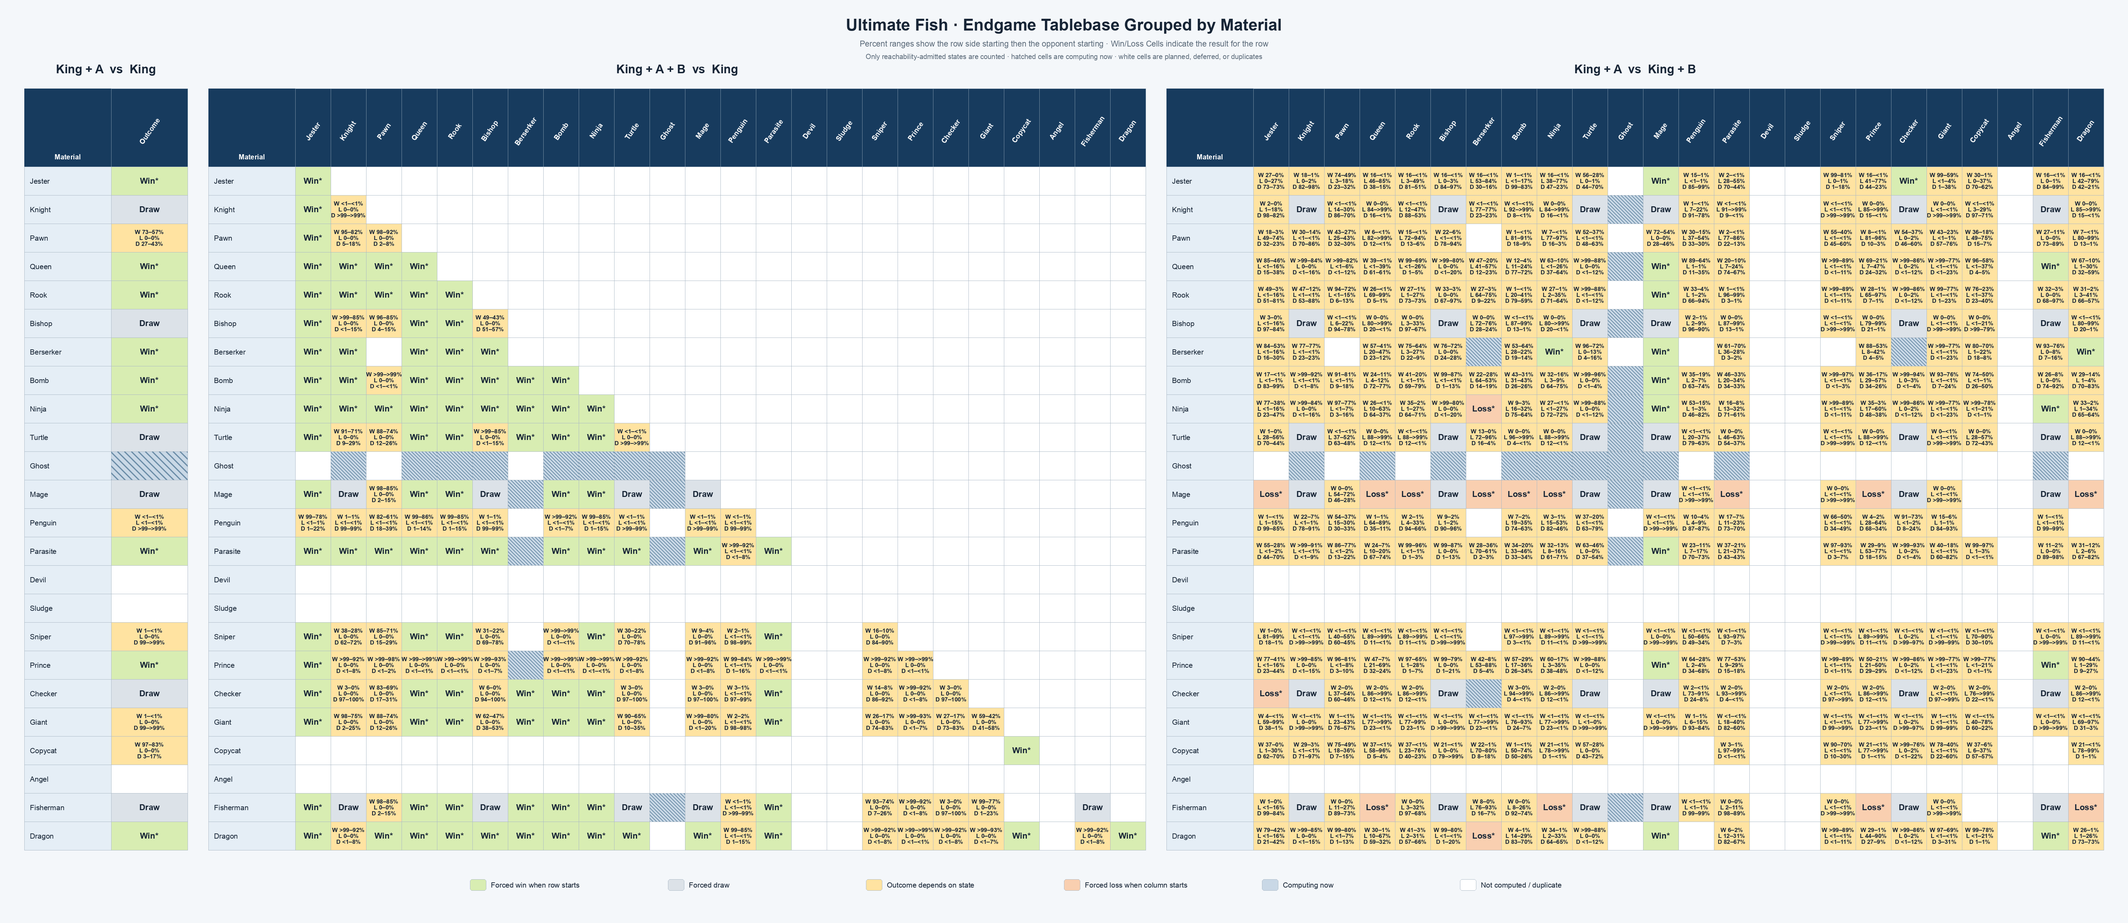
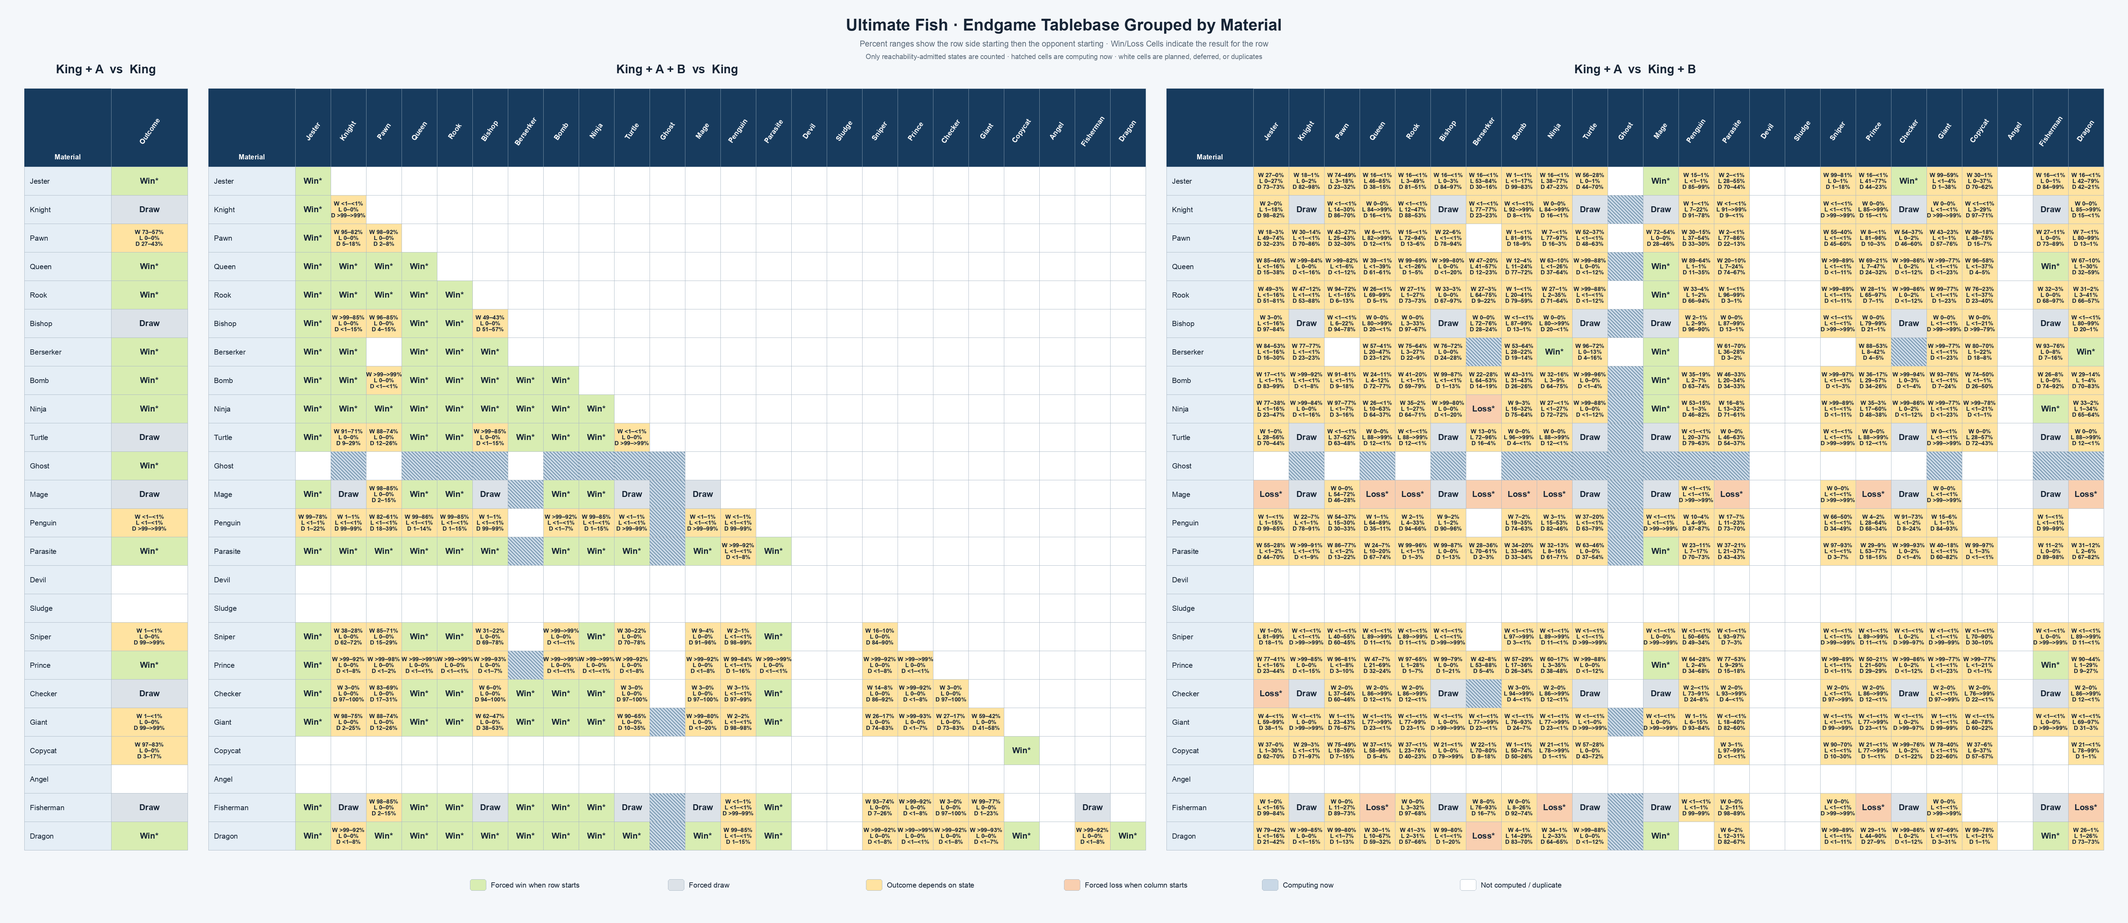
tablebases: certify corrected single Ghost information

diff --git a/tests/tablebases/test_ultimate_tablebase_ledger.py b/tests/tablebases/test_ultimate_tablebase_ledger.py
@@ -155,7 +155,7 @@ class UltimateTablebaseLedgerTests(unittest.TestCase):
                 row.key,
             )
             checked += 1
-        self.assertEqual(393, checked)
+        self.assertEqual(389, checked)
 
     def test_exact_certified_import_is_validated_and_persistent(self):
         rows = ledger.entries(ledger.README.read_text())

diff --git a/tablebases/README.md b/tablebases/README.md
@@ -58,7 +58,7 @@ generated exclusively from the canonical ledger below by
 > S3 versions remain only as invalidated provenance.
 
 <!-- COMPUTATION_LEDGER_START -->
-Ledger totals: **388 certified**, **2 preserving**, **18 computing**, **34 exact draws**, **35 planned**, **0 blocked**, and **147 deferred**; 624 unique material classes.
+Ledger totals: **389 certified**, **2 preserving**, **17 computing**, **34 exact draws**, **35 planned**, **0 blocked**, and **147 deferred**; 624 unique material classes.
 
 | Key | Class | Domain | File | Status | Indexed states | Result domain | First starts W / L / D | Second starts W / L / D | Reachable / unreachable (first; second) | Canonical storage |
 | --- | --- | --- | --- | --- | ---: | --- | ---: | ---: | ---: | --- |
@@ -72,9 +72,9 @@ Ledger totals: **388 certified**, **2 preserving**, **18 computing**, **34 exact
 | `single:bomb` | King+Bomb vs King | single | `kbombk.uftb` | **CERTIFIED** | 985,920 | concrete | 394,988 (97,972) / 0 / 0 | 0 (41,808) / 448,600 (1,760) / 792 | 394,988 / 97,972; 449,392 / 43,568 | S3 legacy archive sha256:e296deebc6d0f4ef2c53e14eab86fd1c2bbc9954a6051ffca5ce7b9623b08263 VersionId YTpSbC_DShKsF8QwShKRSIBUVf8PH0VJ; preservation certificate sha256:1232600dfdc1be8be002701245e6523bfde8334dd4594c8241429a88b5cd825d VersionId 5hp3sJXKSZLcNwkzKEcs8AXrYuGea3RY; reachability v2 sha256:52887f4e29eab71e92dd0aaec2019f4a5a3f59b8010ad4d4de7f0816559f889a VersionId dnNKI2aUC80gBjlcQWpvjNLGrcmH0fen |
 | `single:ninja` | King+Ninja vs King | single | `kninjak.uftb` | **CERTIFIED** | 985,920 | concrete | 356,360 (136,600) / 0 / 0 | 0 (41,808) / 413,376 / 37,776 | 356,360 / 136,600; 451,152 / 41,808 | S3 legacy archive sha256:e296deebc6d0f4ef2c53e14eab86fd1c2bbc9954a6051ffca5ce7b9623b08263 VersionId YTpSbC_DShKsF8QwShKRSIBUVf8PH0VJ; preservation certificate sha256:1232600dfdc1be8be002701245e6523bfde8334dd4594c8241429a88b5cd825d VersionId 5hp3sJXKSZLcNwkzKEcs8AXrYuGea3RY; reachability v2 sha256:52887f4e29eab71e92dd0aaec2019f4a5a3f59b8010ad4d4de7f0816559f889a VersionId dnNKI2aUC80gBjlcQWpvjNLGrcmH0fen |
 | `single:turtle` | King+Turtle vs King | single | — | **DRAW** | — | insufficient material | 0 / 0 / 1 | 0 / 0 / 1 | closed-form draw | — |
-| `single:ghost` | King+Ghost vs King | single | `kghostk.uftb` | **COMPUTING** | 1,971,840 | information v2 | — | — | — | Corrected concrete rebuild from empty work root verified on i08: 1,971,840 states, 17,761,248 edges, W/L/D 1,069,536 / 828,752 / 73,552, table sha256:11b7b57aa9819b1fb9ac3f7bd273ab73cfa3627fb09a855856ae1426af2c0ba5 S3 VersionId eVhw2QN4_t.7cC3AXFR.ltvpmgi4zuhn; full reachability audit sha256:ebf42b170620d65d3f28f0274a81adc39e0547e880772ce9ed4123cad2619b4b VersionId tBwxo4OIADUQHaOIhBKbvea8ccCfEvYi. Corrected hidden-information sidecars are rebuilding from an empty root on i08 with ROBDD reallocation fix source sha256:840d1ac91803267f57dae83f73d5ff7b4e4a32c01d0d3b28585c7e79a251c01e (S3 VersionId MEW4PL43B7k_wzBPgA68KfkcTR7BLA4l); no pre-fix or failed-run graph/checkpoint is reused. |
+| `single:ghost` | King+Ghost vs King | single | `kghostk.uftb` | **CERTIFIED** | 1,971,840 | information v2 | 863,768 (122,152) / 0 / 0 | 0 (83,616) / 826,992 (1,760) / 36,776 (36,776) | 863,768 / 122,152; 863,768 / 122,152 | Corrected concrete table sha256:11b7b57aa9819b1fb9ac3f7bd273ab73cfa3627fb09a855856ae1426af2c0ba5 S3 VersionId eVhw2QN4_t.7cC3AXFR.ltvpmgi4zuhn; reachability audit sha256:ebf42b170620d65d3f28f0274a81adc39e0547e880772ce9ed4123cad2619b4b VersionId tBwxo4OIADUQHaOIhBKbvea8ccCfEvYi; information overlay sha256:b431c1aa18f6b3563bb8837d3251090c2eae37102bf15af31f8aa540f2c7b240 VersionId Tsj0JpGtBORyc9YmJTIEku9EC5YY8FYk; arbitrary-mask sidecar sha256:7f739228e0498b6adcca5e3ca00453a1af926d9d43b9193fff71e7c52eeda489 VersionId fhIm5namTUIHarnNYWt3c1MTmt81wo_Q. The corrected empty-root symbolic solve converged in 49 iterations with Bellman, monotonicity, singleton, and sidecar round-trip residuals all zero; ROBDD-fix source sha256:840d1ac91803267f57dae83f73d5ff7b4e4a32c01d0d3b28585c7e79a251c01e VersionId MEW4PL43B7k_wzBPgA68KfkcTR7BLA4l; no pre-fix or failed-run artifact reused. |
 | `single:mage` | King+Mage vs King | single | — | **DRAW** | — | insufficient material | 0 / 0 / 1 | 0 / 0 / 1 | closed-form draw | — |
-| `single:penguin` | King+Penguin vs King | single | `kpenguink.uftb` | **CERTIFIED** | 3,943,680 | concrete | 384 (48,064) / 192 / 489,112 (448,168) | 796 (43,568) / 1,760 / 527,180 (412,616) | 489,688 / 496,232; 529,736 / 456,184 | S3 table sha256:7bb7da4d5ee6bbe7cb74fd6d65c5d318e79e4ac41492c424960d3934335d22c7 VersionId n.2zykICTUqovc8HRIl7A_JUBWcOK12t; certificate sha256:a2c9023d0fba7eb60b5daa8a4afbfd76cc649cbf26b3472c94fca170285c4629 VersionId OJUUS1OstRF50J2LZ_o74FLgzbUnyNH9; reachability sha256:da3d6ec8c3ff316b85b3ab3e44aecbbab965dfd6b5abb995c38c66c48b6caba3 VersionId np2bYbyydgL7aa0PhyM2Ksd1Nhbp0bSO |
+| `single:penguin` | King+Penguin vs King | single | `kpenguink.uftb` | **CERTIFIED** | 3,943,680 | concrete | 384 (48,064) / 192 / 489,112 (448,168) | 796 (43,568) / 1,760 / 527,180 (412,616) | 489,688 / 496,232; 529,736 / 456,184 | S3 archive sha256:7bb7da4d5ee6bbe7cb74fd6d65c5d318e79e4ac41492c424960d3934335d22c7 VersionId n.2zykICTUqovc8HRIl7A_JUBWcOK12t; contained table sha256:5abd70c847e799b85ed08c49f01c4e5deb3d253505583b8bc145290a84417edd; certificate sha256:a2c9023d0fba7eb60b5daa8a4afbfd76cc649cbf26b3472c94fca170285c4629 VersionId OJUUS1OstRF50J2LZ_o74FLgzbUnyNH9; reachability sha256:da3d6ec8c3ff316b85b3ab3e44aecbbab965dfd6b5abb995c38c66c48b6caba3 VersionId np2bYbyydgL7aa0PhyM2Ksd1Nhbp0bSO |
 | `single:parasite` | King+Parasite vs King | single | `kparasitek.uftb` | **CERTIFIED** | 985,920 | concrete | 412,616 (80,344) / 0 / 0 | 0 (41,808) / 451,120 / 32 | 412,616 / 80,344; 451,152 / 41,808 | S3 legacy archive sha256:e296deebc6d0f4ef2c53e14eab86fd1c2bbc9954a6051ffca5ce7b9623b08263 VersionId YTpSbC_DShKsF8QwShKRSIBUVf8PH0VJ; preservation certificate sha256:1232600dfdc1be8be002701245e6523bfde8334dd4594c8241429a88b5cd825d VersionId 5hp3sJXKSZLcNwkzKEcs8AXrYuGea3RY; reachability v2 sha256:52887f4e29eab71e92dd0aaec2019f4a5a3f59b8010ad4d4de7f0816559f889a VersionId dnNKI2aUC80gBjlcQWpvjNLGrcmH0fen |
 | `single:devil` | King+Devil vs King | single | — | **DEFERRED** | — | concrete | — | — | — | — |
 | `single:sludge` | King+Sludge vs King | single | — | **DEFERRED** | — | concrete | — | — | — | — |
@@ -283,18 +283,18 @@ Ledger totals: **388 certified**, **2 preserving**, **18 computing**, **34 exact
 | `same:turtle+dragon` | King+Turtle+Dragon vs King | same | `kturtledragonk.uftb` | **CERTIFIED** | 37,957,920 | concrete | 13,456,552 (5,522,408) / 0 / 0 | 0 (1,609,608) / 15,996,498 / 1,372,854 | 13,456,552 / 5,522,408; 17,369,352 / 1,609,608 | S3 legacy archive sha256:e296deebc6d0f4ef2c53e14eab86fd1c2bbc9954a6051ffca5ce7b9623b08263 VersionId YTpSbC_DShKsF8QwShKRSIBUVf8PH0VJ; preservation certificate sha256:1232600dfdc1be8be002701245e6523bfde8334dd4594c8241429a88b5cd825d VersionId 5hp3sJXKSZLcNwkzKEcs8AXrYuGea3RY; reachability v2 sha256:52887f4e29eab71e92dd0aaec2019f4a5a3f59b8010ad4d4de7f0816559f889a VersionId dnNKI2aUC80gBjlcQWpvjNLGrcmH0fen |
 | `same:ghost+ghost` | King+2 Ghosts vs King | same | `kghostghostk.uftb` | **COMPUTING** | 75,915,840 | information required | — | — | — | Clean corrected-model concrete rebuild active from an empty work directory on high-memory i03 CPU 4; both-Ghost concrete and all later information graphs will be rebuilt from scratch. |
 | `same:ghost+mage` | King+Ghost+Mage vs King | same | `kghostmagek.uftb` | **COMPUTING** | 75,915,840 | information required | — | — | — | Clean corrected-model concrete rebuild active from an empty work directory on high-memory i0b CPU 2; source sha256:8d9e5e93b96dd76d036e5c908549ebca17c7bc7cccb45be46502078b1f568d62 and corrected lower Ghost table sha256:11b7b57aa9819b1fb9ac3f7bd273ab73cfa3627fb09a855856ae1426af2c0ba5; no old graph/checkpoint reused. |
-| `same:ghost+penguin` | King+Ghost+Penguin vs King | same | `kghostpenguink.uftb` | **PLANNED** | 607,326,720 | information required | — | — | — | INVALIDATED 2026-08-13: pre-fix Ghost artifacts and S3 versions are superseded provenance only; clean concrete, information, transition, normalized-parent, certificate, checkpoint, and retained/rebound rebuild required. |
+| `same:ghost+penguin` | King+Ghost+Penguin vs King | same | `kghostpenguink.uftb` | **COMPUTING** | 607,326,720 | information required | — | — | — | Clean corrected-model concrete rebuild active from an empty work root on high-memory i03 CPU 17. The certified Penguin lower table was restored from pinned archive VersionId n.2zykICTUqovc8HRIl7A_JUBWcOK12t and verified as sha256:5abd70c847e799b85ed08c49f01c4e5deb3d253505583b8bc145290a84417edd. No pre-fix Ghost artifact is reused. |
 | `same:ghost+parasite` | King+Ghost+Parasite vs King | same | `kghostparasitek.uftb` | **COMPUTING** | 75,915,840 | information required | — | — | — | Clean corrected-model concrete rebuild active from an empty overflow-disk work root on high-memory i0b CPU 8; no pre-fix artifact reused. |
 | `same:ghost+devil` | King+Ghost+Devil vs King | same | — | **DEFERRED** | — | concrete | — | — | — | — |
 | `same:ghost+sludge` | King+Ghost+Sludge vs King | same | — | **DEFERRED** | — | concrete | — | — | — | — |
 | `same:ghost+sniper` | King+Ghost+Sniper vs King | same | `kghostsniperk.uftb` | **PLANNED** | 303,663,360 | information required | — | — | — | INVALIDATED 2026-08-13: pre-fix Ghost artifacts and S3 versions are superseded provenance only; clean concrete, information, transition, normalized-parent, certificate, checkpoint, and retained/rebound rebuild required. |
 | `same:ghost+prince` | King+Ghost+Prince vs King | same | `kghostprincek.uftb` | **PLANNED** | 151,831,680 | information required | — | — | — | INVALIDATED 2026-08-13: pre-fix Ghost artifacts and S3 versions are superseded provenance only; clean concrete, information, transition, normalized-parent, certificate, checkpoint, and retained/rebound rebuild required. |
 | `same:ghost+checker` | King+Ghost+Checker vs King | same | `kghostcheckerk.uftb` | **PLANNED** | 303,663,360 | information required | — | — | — | INVALIDATED 2026-08-13: pre-fix Ghost artifacts and S3 versions are superseded provenance only; clean concrete, information, transition, normalized-parent, certificate, checkpoint, and retained/rebound rebuild required. |
-| `same:ghost+giant` | King+Ghost+Giant vs King | same | `kghostgiantk.uftb` | **PLANNED** | 75,915,840 | information v2 | — | — | — | INVALIDATED 2026-08-13: pre-fix Ghost artifacts and S3 versions are superseded provenance only; clean concrete, information, transition, normalized-parent, certificate, checkpoint, and retained/rebound rebuild required. |
+| `same:ghost+giant` | King+Ghost+Giant vs King | same | `kghostgiantk.uftb` | **COMPUTING** | 75,915,840 | information v2 | — | — | — | Clean corrected-model concrete rebuild active from an empty work root on i03 CPU 13; no pre-fix artifact reused. |
 | `same:ghost+copycat` | King+Ghost+Copycat vs King | same | `kcopycatghostk.uftb` | **PLANNED** | 151,831,680 | information required | — | — | — | INVALIDATED 2026-08-13: pre-fix Ghost artifacts and S3 versions are superseded provenance only; clean concrete, information, transition, normalized-parent, certificate, checkpoint, and retained/rebound rebuild required. |
 | `same:ghost+angel` | King+Ghost+Angel vs King | same | — | **DEFERRED** | — | concrete | — | — | — | — |
 | `same:ghost+fisherman` | King+Ghost+Fisherman vs King | same | `kghostfishermank.uftb` | **COMPUTING** | 75,915,840 | information required | — | — | — | Clean corrected-model concrete rebuild active from empty work root on i08 CPU 2. The later specialized Fisherman/Ghost information transitions will also be rebuilt from scratch under the corrected collision rules. |
-| `same:ghost+dragon` | King+Ghost+Dragon vs King | same | `kghostdragonk.uftb` | **PLANNED** | 75,915,840 | information required | — | — | — | INVALIDATED 2026-08-13: pre-fix Ghost artifacts and S3 versions are superseded provenance only; clean concrete, information, transition, normalized-parent, certificate, checkpoint, and retained/rebound rebuild required. |
+| `same:ghost+dragon` | King+Ghost+Dragon vs King | same | `kghostdragonk.uftb` | **COMPUTING** | 75,915,840 | information required | — | — | — | Clean corrected-model concrete rebuild active from an empty work root on i03 CPU 15; no pre-fix artifact reused. |
 | `same:mage+mage` | King+2 Mages vs King | same | — | **DRAW** | — | insufficient material | 0 / 0 / 1 | 0 / 0 / 1 | closed-form draw | — |
 | `same:mage+penguin` | King+Mage+Penguin vs King | same | `kmagepenguink.uftb` | **CERTIFIED** | 303,663,360 | concrete | 52,012 (2,273,538) / 2,820 / 20,523,140 (128,980,170) | 8,998 (1,881,536) / 135,360 / 22,168,722 (127,637,064) | 20,577,972 / 131,253,708; 22,313,080 / 129,518,600 | S3 table sha256:90eeb1aef3fbe48c084ae1c687cfde59c1e038a33306c227175844239d4590fc VersionId 83DZWNbTLdgPddvwEZCKMtPY2R32_4Zv; certificate sha256:8ef021fda5605adac11e6da2d4a1fc522b3aeca6010ee6edd261d4fd2f3ac9e3 VersionId ZtyfbqhzpInivp5adCjqOOE00otwnAev; reachability sha256:a4cc3e99172e68cfd6db0cbf39684b269ad52b55b2474b0c02bec4a49db1582a VersionId l4OKpcav3CSApOYbYy00jJtf89h2rCar |
 | `same:mage+parasite` | King+Mage+Parasite vs King | same | `kmageparasitek.uftb` | **CERTIFIED** | 37,957,920 | concrete | 15,885,716 (3,093,244) / 0 / 0 | 0 (1,609,608) / 17,368,120 / 1,232 | 15,885,716 / 3,093,244; 17,369,352 / 1,609,608 | S3 legacy archive sha256:e296deebc6d0f4ef2c53e14eab86fd1c2bbc9954a6051ffca5ce7b9623b08263 VersionId YTpSbC_DShKsF8QwShKRSIBUVf8PH0VJ; preservation certificate sha256:1232600dfdc1be8be002701245e6523bfde8334dd4594c8241429a88b5cd825d VersionId 5hp3sJXKSZLcNwkzKEcs8AXrYuGea3RY; reachability v2 sha256:52887f4e29eab71e92dd0aaec2019f4a5a3f59b8010ad4d4de7f0816559f889a VersionId dnNKI2aUC80gBjlcQWpvjNLGrcmH0fen |
@@ -583,18 +583,18 @@ Ledger totals: **388 certified**, **2 preserving**, **18 computing**, **34 exact
 | `opposed:turtle+dragon` | King+Turtle vs King+Dragon | opposed | `kturtlekdragon.uftb` | **CERTIFIED** | 37,957,920 | concrete | 0 (2,397,164) / 14,530,158 / 2,051,638 | 14,056,448 (4,893,140) / 0 / 29,372 | 16,581,796 / 2,397,164; 14,085,820 / 4,893,140 | S3 legacy archive sha256:e296deebc6d0f4ef2c53e14eab86fd1c2bbc9954a6051ffca5ce7b9623b08263 VersionId YTpSbC_DShKsF8QwShKRSIBUVf8PH0VJ; preservation certificate sha256:1232600dfdc1be8be002701245e6523bfde8334dd4594c8241429a88b5cd825d VersionId 5hp3sJXKSZLcNwkzKEcs8AXrYuGea3RY; reachability v2 sha256:52887f4e29eab71e92dd0aaec2019f4a5a3f59b8010ad4d4de7f0816559f889a VersionId dnNKI2aUC80gBjlcQWpvjNLGrcmH0fen |
 | `opposed:ghost+ghost` | King+Ghost vs King+Ghost | opposed | `kghostkghost.uftb` | **COMPUTING** | 151,831,680 | information required | — | — | — | Clean corrected-model concrete rebuild active from an empty work directory on high-memory i03 CPU 5; both-Ghost concrete and all later information graphs will be rebuilt from scratch. |
 | `opposed:ghost+mage` | King+Ghost vs King+Mage | opposed | `kghostkmage.uftb` | **COMPUTING** | 75,915,840 | information required | — | — | — | Clean corrected-model concrete rebuild active from an empty work directory on high-memory i0b CPU 3; corrected source/lower bindings; no old graph/checkpoint reused. |
-| `opposed:ghost+penguin` | King+Ghost vs King+Penguin | opposed | `kghostkpenguin.uftb` | **PLANNED** | 607,326,720 | information required | — | — | — | INVALIDATED 2026-08-13: pre-fix Ghost artifacts and S3 versions are superseded provenance only; clean concrete, information, transition, normalized-parent, certificate, checkpoint, and retained/rebound rebuild required. |
+| `opposed:ghost+penguin` | King+Ghost vs King+Penguin | opposed | `kghostkpenguin.uftb` | **COMPUTING** | 607,326,720 | information required | — | — | — | Clean corrected-model concrete rebuild active from an empty overflow-disk work root on high-memory i0b CPU 14. The exact pinned certified Penguin lower table is bound by sha256:5abd70c847e799b85ed08c49f01c4e5deb3d253505583b8bc145290a84417edd. No pre-fix Ghost artifact is reused. |
 | `opposed:ghost+parasite` | King+Ghost vs King+Parasite | opposed | `kghostkparasite.uftb` | **COMPUTING** | 75,915,840 | information required | — | — | — | Clean corrected-model concrete rebuild active from an empty overflow-disk work root on high-memory i0b CPU 9; no pre-fix artifact reused. |
 | `opposed:ghost+devil` | King+Ghost vs King+Devil | opposed | — | **DEFERRED** | — | concrete | — | — | — | — |
 | `opposed:ghost+sludge` | King+Ghost vs King+Sludge | opposed | — | **DEFERRED** | — | concrete | — | — | — | — |
 | `opposed:ghost+sniper` | King+Ghost vs King+Sniper | opposed | `kghostksniper.uftb` | **PLANNED** | 303,663,360 | information required | — | — | — | INVALIDATED 2026-08-13: pre-fix Ghost artifacts and S3 versions are superseded provenance only; clean concrete, information, transition, normalized-parent, certificate, checkpoint, and retained/rebound rebuild required. |
 | `opposed:ghost+prince` | King+Ghost vs King+Prince | opposed | `kghostkprince.uftb` | **PLANNED** | 151,831,680 | information required | — | — | — | INVALIDATED 2026-08-13: pre-fix Ghost artifacts and S3 versions are superseded provenance only; clean concrete, information, transition, normalized-parent, certificate, checkpoint, and retained/rebound rebuild required. |
 | `opposed:ghost+checker` | King+Ghost vs King+Checker | opposed | `kghostkchecker.uftb` | **PLANNED** | 303,663,360 | information required | — | — | — | INVALIDATED 2026-08-13: pre-fix Ghost artifacts and S3 versions are superseded provenance only; clean concrete, information, transition, normalized-parent, certificate, checkpoint, and retained/rebound rebuild required. |
-| `opposed:ghost+giant` | King+Ghost vs King+Giant | opposed | `kghostkgiant.uftb` | **PLANNED** | 75,915,840 | information required | — | — | — | INVALIDATED 2026-08-13: pre-fix Ghost artifacts and S3 versions are superseded provenance only; clean concrete, information, transition, normalized-parent, certificate, checkpoint, and retained/rebound rebuild required. |
+| `opposed:ghost+giant` | King+Ghost vs King+Giant | opposed | `kghostkgiant.uftb` | **COMPUTING** | 75,915,840 | information required | — | — | — | Clean corrected-model concrete rebuild active from an empty work root on i03 CPU 14; no pre-fix artifact reused. |
 | `opposed:ghost+copycat` | King+Ghost vs King+Copycat | opposed | `kcopycatkghost.uftb` | **PLANNED** | 151,831,680 | information required | — | — | — | INVALIDATED 2026-08-13: pre-fix Ghost artifacts and S3 versions are superseded provenance only; clean concrete, information, transition, normalized-parent, certificate, checkpoint, and retained/rebound rebuild required. |
 | `opposed:ghost+angel` | King+Ghost vs King+Angel | opposed | — | **DEFERRED** | — | concrete | — | — | — | — |
 | `opposed:ghost+fisherman` | King+Ghost vs King+Fisherman | opposed | `kghostkfisherman.uftb` | **COMPUTING** | 75,915,840 | information required | — | — | — | Clean corrected-model concrete rebuild active from empty work root on i08 CPU 3. The later specialized Fisherman/Ghost information transitions will also be rebuilt from scratch under the corrected collision rules. |
-| `opposed:ghost+dragon` | King+Ghost vs King+Dragon | opposed | `kghostkdragon.uftb` | **PLANNED** | 75,915,840 | information required | — | — | — | INVALIDATED 2026-08-13: pre-fix Ghost artifacts and S3 versions are superseded provenance only; clean concrete, information, transition, normalized-parent, certificate, checkpoint, and retained/rebound rebuild required. |
+| `opposed:ghost+dragon` | King+Ghost vs King+Dragon | opposed | `kghostkdragon.uftb` | **COMPUTING** | 75,915,840 | information required | — | — | — | Clean corrected-model concrete rebuild active from an empty work root on i03 CPU 16; no pre-fix artifact reused. |
 | `opposed:mage+mage` | King+Mage vs King+Mage | opposed | — | **DRAW** | — | insufficient material | 0 / 0 / 1 | 0 / 0 / 1 | closed-form draw | — |
 | `opposed:mage+penguin` | King+Mage vs King+Penguin | opposed | `kmagekpenguin.uftb` | **CERTIFIED** | 303,663,360 | concrete | 46,148 (1,881,536) / 22,416 / 22,244,516 (127,637,064) | 44,662 (1,901,860) / 11,076 / 22,131,842 (127,742,240) | 22,313,080 / 129,518,600; 22,187,580 / 129,644,100 | S3 table sha256:6f8e47606ea7499cd376721e196cccc5a5d8f96e54a2f8986c653b2fb0bbea97 VersionId 02kKpSQcFjNEDFzlrzfEr8GaTDRPqLrt; certificate sha256:b39ecbc5d0e06ed4e53359a9254f8f50429b2398359b6c89cca6d8fe01abd608 VersionId 0NdVdO4oHVFxdaIaat3gDGGjRP5_3IAV; reachability sha256:079960e4fdccae3983c83f341da904382beb9f81eb1b8eac02d7a9b6fe787e94 VersionId q2lALZC6OL2nYzl37DmHcV6TnQWbpfKF |
 | `opposed:mage+parasite` | King+Mage vs King+Parasite | opposed | `kmagekparasite.uftb` | **CERTIFIED** | 37,957,920 | concrete | 0 (1,609,608) / 17,369,180 / 172 | 15,885,716 (3,093,244) / 0 / 0 | 17,369,352 / 1,609,608; 15,885,716 / 3,093,244 | S3 legacy archive sha256:e296deebc6d0f4ef2c53e14eab86fd1c2bbc9954a6051ffca5ce7b9623b08263 VersionId YTpSbC_DShKsF8QwShKRSIBUVf8PH0VJ; preservation certificate sha256:1232600dfdc1be8be002701245e6523bfde8334dd4594c8241429a88b5cd825d VersionId 5hp3sJXKSZLcNwkzKEcs8AXrYuGea3RY; reachability v2 sha256:52887f4e29eab71e92dd0aaec2019f4a5a3f59b8010ad4d4de7f0816559f889a VersionId dnNKI2aUC80gBjlcQWpvjNLGrcmH0fen |
